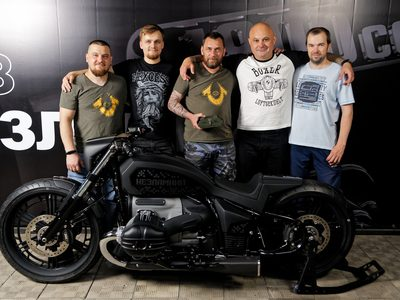
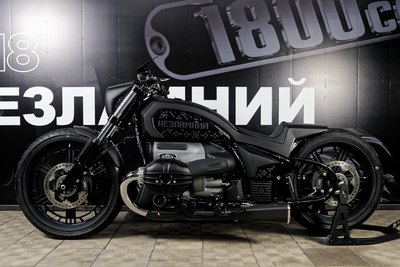
Refresh Unbreakable project photography

diff --git a/projects/unbreakable/index.html b/projects/unbreakable/index.html
@@ -300,6 +300,18 @@
 <div class="gtile"><img alt="Unbreakable — photo 6" height="554" loading="lazy" sizes="(max-width:760px) 50vw, 25vw" src="/photos/projects/gallery/unbreakable/unbreakable-06-800.jpg" srcset="/photos/projects/gallery/unbreakable/unbreakable-06-400.jpg 520w, /photos/projects/gallery/unbreakable/unbreakable-06-800.jpg 832w" width="832"/></div>
 <div class="gtile"><img alt="Unbreakable — photo 7" height="554" loading="lazy" sizes="(max-width:760px) 50vw, 25vw" src="/photos/projects/gallery/unbreakable/unbreakable-07-800.jpg" srcset="/photos/projects/gallery/unbreakable/unbreakable-07-400.jpg 520w, /photos/projects/gallery/unbreakable/unbreakable-07-800.jpg 832w" width="832"/></div>
 <div class="gtile"><img alt="Unbreakable — photo 8" height="554" loading="lazy" sizes="(max-width:760px) 50vw, 25vw" src="/photos/projects/gallery/unbreakable/unbreakable-08-800.jpg" srcset="/photos/projects/gallery/unbreakable/unbreakable-08-400.jpg 520w, /photos/projects/gallery/unbreakable/unbreakable-08-800.jpg 832w" width="832"/></div>
+<div class="gtile"><img alt="Unbreakable — photo 9" height="554" loading="lazy" sizes="(max-width:760px) 50vw, 25vw" src="/photos/projects/gallery/unbreakable/unbreakable-09-800.jpg" srcset="/photos/projects/gallery/unbreakable/unbreakable-09-400.jpg 520w, /photos/projects/gallery/unbreakable/unbreakable-09-800.jpg 832w" width="832"/></div>
+<div class="gtile"><img alt="Unbreakable — photo 10" height="554" loading="lazy" sizes="(max-width:760px) 50vw, 25vw" src="/photos/projects/gallery/unbreakable/unbreakable-10-800.jpg" srcset="/photos/projects/gallery/unbreakable/unbreakable-10-400.jpg 520w, /photos/projects/gallery/unbreakable/unbreakable-10-800.jpg 832w" width="832"/></div>
+<div class="gtile"><img alt="Unbreakable — photo 11" height="554" loading="lazy" sizes="(max-width:760px) 50vw, 25vw" src="/photos/projects/gallery/unbreakable/unbreakable-11-800.jpg" srcset="/photos/projects/gallery/unbreakable/unbreakable-11-400.jpg 520w, /photos/projects/gallery/unbreakable/unbreakable-11-800.jpg 832w" width="832"/></div>
+<div class="gtile"><img alt="Unbreakable — photo 12" height="554" loading="lazy" sizes="(max-width:760px) 50vw, 25vw" src="/photos/projects/gallery/unbreakable/unbreakable-12-800.jpg" srcset="/photos/projects/gallery/unbreakable/unbreakable-12-400.jpg 520w, /photos/projects/gallery/unbreakable/unbreakable-12-800.jpg 832w" width="832"/></div>
+<div class="gtile"><img alt="Unbreakable — photo 13" height="554" loading="lazy" sizes="(max-width:760px) 50vw, 25vw" src="/photos/projects/gallery/unbreakable/unbreakable-13-800.jpg" srcset="/photos/projects/gallery/unbreakable/unbreakable-13-400.jpg 520w, /photos/projects/gallery/unbreakable/unbreakable-13-800.jpg 832w" width="832"/></div>
+<div class="gtile"><img alt="Unbreakable — photo 14" height="554" loading="lazy" sizes="(max-width:760px) 50vw, 25vw" src="/photos/projects/gallery/unbreakable/unbreakable-14-800.jpg" srcset="/photos/projects/gallery/unbreakable/unbreakable-14-400.jpg 520w, /photos/projects/gallery/unbreakable/unbreakable-14-800.jpg 832w" width="832"/></div>
+<div class="gtile"><img alt="Unbreakable — photo 15" height="554" loading="lazy" sizes="(max-width:760px) 50vw, 25vw" src="/photos/projects/gallery/unbreakable/unbreakable-15-800.jpg" srcset="/photos/projects/gallery/unbreakable/unbreakable-15-400.jpg 520w, /photos/projects/gallery/unbreakable/unbreakable-15-800.jpg 832w" width="832"/></div>
+<div class="gtile"><img alt="Unbreakable — photo 16" height="554" loading="lazy" sizes="(max-width:760px) 50vw, 25vw" src="/photos/projects/gallery/unbreakable/unbreakable-16-800.jpg" srcset="/photos/projects/gallery/unbreakable/unbreakable-16-400.jpg 520w, /photos/projects/gallery/unbreakable/unbreakable-16-800.jpg 832w" width="832"/></div>
+<div class="gtile"><img alt="Unbreakable — photo 17" height="554" loading="lazy" sizes="(max-width:760px) 50vw, 25vw" src="/photos/projects/gallery/unbreakable/unbreakable-17-800.jpg" srcset="/photos/projects/gallery/unbreakable/unbreakable-17-400.jpg 520w, /photos/projects/gallery/unbreakable/unbreakable-17-800.jpg 832w" width="832"/></div>
+<div class="gtile"><img alt="Unbreakable — photo 18" height="554" loading="lazy" sizes="(max-width:760px) 50vw, 25vw" src="/photos/projects/gallery/unbreakable/unbreakable-18-800.jpg" srcset="/photos/projects/gallery/unbreakable/unbreakable-18-400.jpg 520w, /photos/projects/gallery/unbreakable/unbreakable-18-800.jpg 832w" width="832"/></div>
+<div class="gtile"><img alt="Unbreakable — photo 19" height="554" loading="lazy" sizes="(max-width:760px) 50vw, 25vw" src="/photos/projects/gallery/unbreakable/unbreakable-19-800.jpg" srcset="/photos/projects/gallery/unbreakable/unbreakable-19-400.jpg 520w, /photos/projects/gallery/unbreakable/unbreakable-19-800.jpg 832w" width="832"/></div>
+<div class="gtile"><img alt="Unbreakable — photo 20" height="554" loading="lazy" sizes="(max-width:760px) 50vw, 25vw" src="/photos/projects/gallery/unbreakable/unbreakable-20-800.jpg" srcset="/photos/projects/gallery/unbreakable/unbreakable-20-400.jpg 520w, /photos/projects/gallery/unbreakable/unbreakable-20-800.jpg 832w" width="832"/></div>
 </div>
 </div>
 </section>

diff --git a/pt/projects/unbreakable/index.html b/pt/projects/unbreakable/index.html
@@ -300,6 +300,18 @@
 <div class="gtile"><img alt="Unbreakable — photo 6" height="554" loading="lazy" sizes="(max-width:760px) 50vw, 25vw" src="/photos/projects/gallery/unbreakable/unbreakable-06-800.jpg" srcset="/photos/projects/gallery/unbreakable/unbreakable-06-400.jpg 520w, /photos/projects/gallery/unbreakable/unbreakable-06-800.jpg 832w" width="832"/></div>
 <div class="gtile"><img alt="Unbreakable — photo 7" height="554" loading="lazy" sizes="(max-width:760px) 50vw, 25vw" src="/photos/projects/gallery/unbreakable/unbreakable-07-800.jpg" srcset="/photos/projects/gallery/unbreakable/unbreakable-07-400.jpg 520w, /photos/projects/gallery/unbreakable/unbreakable-07-800.jpg 832w" width="832"/></div>
 <div class="gtile"><img alt="Unbreakable — photo 8" height="554" loading="lazy" sizes="(max-width:760px) 50vw, 25vw" src="/photos/projects/gallery/unbreakable/unbreakable-08-800.jpg" srcset="/photos/projects/gallery/unbreakable/unbreakable-08-400.jpg 520w, /photos/projects/gallery/unbreakable/unbreakable-08-800.jpg 832w" width="832"/></div>
+<div class="gtile"><img alt="Unbreakable — photo 9" height="554" loading="lazy" sizes="(max-width:760px) 50vw, 25vw" src="/photos/projects/gallery/unbreakable/unbreakable-09-800.jpg" srcset="/photos/projects/gallery/unbreakable/unbreakable-09-400.jpg 520w, /photos/projects/gallery/unbreakable/unbreakable-09-800.jpg 832w" width="832"/></div>
+<div class="gtile"><img alt="Unbreakable — photo 10" height="554" loading="lazy" sizes="(max-width:760px) 50vw, 25vw" src="/photos/projects/gallery/unbreakable/unbreakable-10-800.jpg" srcset="/photos/projects/gallery/unbreakable/unbreakable-10-400.jpg 520w, /photos/projects/gallery/unbreakable/unbreakable-10-800.jpg 832w" width="832"/></div>
+<div class="gtile"><img alt="Unbreakable — photo 11" height="554" loading="lazy" sizes="(max-width:760px) 50vw, 25vw" src="/photos/projects/gallery/unbreakable/unbreakable-11-800.jpg" srcset="/photos/projects/gallery/unbreakable/unbreakable-11-400.jpg 520w, /photos/projects/gallery/unbreakable/unbreakable-11-800.jpg 832w" width="832"/></div>
+<div class="gtile"><img alt="Unbreakable — photo 12" height="554" loading="lazy" sizes="(max-width:760px) 50vw, 25vw" src="/photos/projects/gallery/unbreakable/unbreakable-12-800.jpg" srcset="/photos/projects/gallery/unbreakable/unbreakable-12-400.jpg 520w, /photos/projects/gallery/unbreakable/unbreakable-12-800.jpg 832w" width="832"/></div>
+<div class="gtile"><img alt="Unbreakable — photo 13" height="554" loading="lazy" sizes="(max-width:760px) 50vw, 25vw" src="/photos/projects/gallery/unbreakable/unbreakable-13-800.jpg" srcset="/photos/projects/gallery/unbreakable/unbreakable-13-400.jpg 520w, /photos/projects/gallery/unbreakable/unbreakable-13-800.jpg 832w" width="832"/></div>
+<div class="gtile"><img alt="Unbreakable — photo 14" height="554" loading="lazy" sizes="(max-width:760px) 50vw, 25vw" src="/photos/projects/gallery/unbreakable/unbreakable-14-800.jpg" srcset="/photos/projects/gallery/unbreakable/unbreakable-14-400.jpg 520w, /photos/projects/gallery/unbreakable/unbreakable-14-800.jpg 832w" width="832"/></div>
+<div class="gtile"><img alt="Unbreakable — photo 15" height="554" loading="lazy" sizes="(max-width:760px) 50vw, 25vw" src="/photos/projects/gallery/unbreakable/unbreakable-15-800.jpg" srcset="/photos/projects/gallery/unbreakable/unbreakable-15-400.jpg 520w, /photos/projects/gallery/unbreakable/unbreakable-15-800.jpg 832w" width="832"/></div>
+<div class="gtile"><img alt="Unbreakable — photo 16" height="554" loading="lazy" sizes="(max-width:760px) 50vw, 25vw" src="/photos/projects/gallery/unbreakable/unbreakable-16-800.jpg" srcset="/photos/projects/gallery/unbreakable/unbreakable-16-400.jpg 520w, /photos/projects/gallery/unbreakable/unbreakable-16-800.jpg 832w" width="832"/></div>
+<div class="gtile"><img alt="Unbreakable — photo 17" height="554" loading="lazy" sizes="(max-width:760px) 50vw, 25vw" src="/photos/projects/gallery/unbreakable/unbreakable-17-800.jpg" srcset="/photos/projects/gallery/unbreakable/unbreakable-17-400.jpg 520w, /photos/projects/gallery/unbreakable/unbreakable-17-800.jpg 832w" width="832"/></div>
+<div class="gtile"><img alt="Unbreakable — photo 18" height="554" loading="lazy" sizes="(max-width:760px) 50vw, 25vw" src="/photos/projects/gallery/unbreakable/unbreakable-18-800.jpg" srcset="/photos/projects/gallery/unbreakable/unbreakable-18-400.jpg 520w, /photos/projects/gallery/unbreakable/unbreakable-18-800.jpg 832w" width="832"/></div>
+<div class="gtile"><img alt="Unbreakable — photo 19" height="554" loading="lazy" sizes="(max-width:760px) 50vw, 25vw" src="/photos/projects/gallery/unbreakable/unbreakable-19-800.jpg" srcset="/photos/projects/gallery/unbreakable/unbreakable-19-400.jpg 520w, /photos/projects/gallery/unbreakable/unbreakable-19-800.jpg 832w" width="832"/></div>
+<div class="gtile"><img alt="Unbreakable — photo 20" height="554" loading="lazy" sizes="(max-width:760px) 50vw, 25vw" src="/photos/projects/gallery/unbreakable/unbreakable-20-800.jpg" srcset="/photos/projects/gallery/unbreakable/unbreakable-20-400.jpg 520w, /photos/projects/gallery/unbreakable/unbreakable-20-800.jpg 832w" width="832"/></div>
 </div>
 </div>
 </section>

diff --git a/ru/projects/unbreakable/index.html b/ru/projects/unbreakable/index.html
@@ -300,6 +300,18 @@
 <div class="gtile"><img alt="Unbreakable — photo 6" height="554" loading="lazy" sizes="(max-width:760px) 50vw, 25vw" src="/photos/projects/gallery/unbreakable/unbreakable-06-800.jpg" srcset="/photos/projects/gallery/unbreakable/unbreakable-06-400.jpg 520w, /photos/projects/gallery/unbreakable/unbreakable-06-800.jpg 832w" width="832"/></div>
 <div class="gtile"><img alt="Unbreakable — photo 7" height="554" loading="lazy" sizes="(max-width:760px) 50vw, 25vw" src="/photos/projects/gallery/unbreakable/unbreakable-07-800.jpg" srcset="/photos/projects/gallery/unbreakable/unbreakable-07-400.jpg 520w, /photos/projects/gallery/unbreakable/unbreakable-07-800.jpg 832w" width="832"/></div>
 <div class="gtile"><img alt="Unbreakable — photo 8" height="554" loading="lazy" sizes="(max-width:760px) 50vw, 25vw" src="/photos/projects/gallery/unbreakable/unbreakable-08-800.jpg" srcset="/photos/projects/gallery/unbreakable/unbreakable-08-400.jpg 520w, /photos/projects/gallery/unbreakable/unbreakable-08-800.jpg 832w" width="832"/></div>
+<div class="gtile"><img alt="Unbreakable — photo 9" height="554" loading="lazy" sizes="(max-width:760px) 50vw, 25vw" src="/photos/projects/gallery/unbreakable/unbreakable-09-800.jpg" srcset="/photos/projects/gallery/unbreakable/unbreakable-09-400.jpg 520w, /photos/projects/gallery/unbreakable/unbreakable-09-800.jpg 832w" width="832"/></div>
+<div class="gtile"><img alt="Unbreakable — photo 10" height="554" loading="lazy" sizes="(max-width:760px) 50vw, 25vw" src="/photos/projects/gallery/unbreakable/unbreakable-10-800.jpg" srcset="/photos/projects/gallery/unbreakable/unbreakable-10-400.jpg 520w, /photos/projects/gallery/unbreakable/unbreakable-10-800.jpg 832w" width="832"/></div>
+<div class="gtile"><img alt="Unbreakable — photo 11" height="554" loading="lazy" sizes="(max-width:760px) 50vw, 25vw" src="/photos/projects/gallery/unbreakable/unbreakable-11-800.jpg" srcset="/photos/projects/gallery/unbreakable/unbreakable-11-400.jpg 520w, /photos/projects/gallery/unbreakable/unbreakable-11-800.jpg 832w" width="832"/></div>
+<div class="gtile"><img alt="Unbreakable — photo 12" height="554" loading="lazy" sizes="(max-width:760px) 50vw, 25vw" src="/photos/projects/gallery/unbreakable/unbreakable-12-800.jpg" srcset="/photos/projects/gallery/unbreakable/unbreakable-12-400.jpg 520w, /photos/projects/gallery/unbreakable/unbreakable-12-800.jpg 832w" width="832"/></div>
+<div class="gtile"><img alt="Unbreakable — photo 13" height="554" loading="lazy" sizes="(max-width:760px) 50vw, 25vw" src="/photos/projects/gallery/unbreakable/unbreakable-13-800.jpg" srcset="/photos/projects/gallery/unbreakable/unbreakable-13-400.jpg 520w, /photos/projects/gallery/unbreakable/unbreakable-13-800.jpg 832w" width="832"/></div>
+<div class="gtile"><img alt="Unbreakable — photo 14" height="554" loading="lazy" sizes="(max-width:760px) 50vw, 25vw" src="/photos/projects/gallery/unbreakable/unbreakable-14-800.jpg" srcset="/photos/projects/gallery/unbreakable/unbreakable-14-400.jpg 520w, /photos/projects/gallery/unbreakable/unbreakable-14-800.jpg 832w" width="832"/></div>
+<div class="gtile"><img alt="Unbreakable — photo 15" height="554" loading="lazy" sizes="(max-width:760px) 50vw, 25vw" src="/photos/projects/gallery/unbreakable/unbreakable-15-800.jpg" srcset="/photos/projects/gallery/unbreakable/unbreakable-15-400.jpg 520w, /photos/projects/gallery/unbreakable/unbreakable-15-800.jpg 832w" width="832"/></div>
+<div class="gtile"><img alt="Unbreakable — photo 16" height="554" loading="lazy" sizes="(max-width:760px) 50vw, 25vw" src="/photos/projects/gallery/unbreakable/unbreakable-16-800.jpg" srcset="/photos/projects/gallery/unbreakable/unbreakable-16-400.jpg 520w, /photos/projects/gallery/unbreakable/unbreakable-16-800.jpg 832w" width="832"/></div>
+<div class="gtile"><img alt="Unbreakable — photo 17" height="554" loading="lazy" sizes="(max-width:760px) 50vw, 25vw" src="/photos/projects/gallery/unbreakable/unbreakable-17-800.jpg" srcset="/photos/projects/gallery/unbreakable/unbreakable-17-400.jpg 520w, /photos/projects/gallery/unbreakable/unbreakable-17-800.jpg 832w" width="832"/></div>
+<div class="gtile"><img alt="Unbreakable — photo 18" height="554" loading="lazy" sizes="(max-width:760px) 50vw, 25vw" src="/photos/projects/gallery/unbreakable/unbreakable-18-800.jpg" srcset="/photos/projects/gallery/unbreakable/unbreakable-18-400.jpg 520w, /photos/projects/gallery/unbreakable/unbreakable-18-800.jpg 832w" width="832"/></div>
+<div class="gtile"><img alt="Unbreakable — photo 19" height="554" loading="lazy" sizes="(max-width:760px) 50vw, 25vw" src="/photos/projects/gallery/unbreakable/unbreakable-19-800.jpg" srcset="/photos/projects/gallery/unbreakable/unbreakable-19-400.jpg 520w, /photos/projects/gallery/unbreakable/unbreakable-19-800.jpg 832w" width="832"/></div>
+<div class="gtile"><img alt="Unbreakable — photo 20" height="554" loading="lazy" sizes="(max-width:760px) 50vw, 25vw" src="/photos/projects/gallery/unbreakable/unbreakable-20-800.jpg" srcset="/photos/projects/gallery/unbreakable/unbreakable-20-400.jpg 520w, /photos/projects/gallery/unbreakable/unbreakable-20-800.jpg 832w" width="832"/></div>
 </div>
 </div>
 </section>

diff --git a/uk/projects/unbreakable/index.html b/uk/projects/unbreakable/index.html
@@ -300,6 +300,18 @@
 <div class="gtile"><img alt="Unbreakable — photo 6" height="554" loading="lazy" sizes="(max-width:760px) 50vw, 25vw" src="/photos/projects/gallery/unbreakable/unbreakable-06-800.jpg" srcset="/photos/projects/gallery/unbreakable/unbreakable-06-400.jpg 520w, /photos/projects/gallery/unbreakable/unbreakable-06-800.jpg 832w" width="832"/></div>
 <div class="gtile"><img alt="Unbreakable — photo 7" height="554" loading="lazy" sizes="(max-width:760px) 50vw, 25vw" src="/photos/projects/gallery/unbreakable/unbreakable-07-800.jpg" srcset="/photos/projects/gallery/unbreakable/unbreakable-07-400.jpg 520w, /photos/projects/gallery/unbreakable/unbreakable-07-800.jpg 832w" width="832"/></div>
 <div class="gtile"><img alt="Unbreakable — photo 8" height="554" loading="lazy" sizes="(max-width:760px) 50vw, 25vw" src="/photos/projects/gallery/unbreakable/unbreakable-08-800.jpg" srcset="/photos/projects/gallery/unbreakable/unbreakable-08-400.jpg 520w, /photos/projects/gallery/unbreakable/unbreakable-08-800.jpg 832w" width="832"/></div>
+<div class="gtile"><img alt="Unbreakable — photo 9" height="554" loading="lazy" sizes="(max-width:760px) 50vw, 25vw" src="/photos/projects/gallery/unbreakable/unbreakable-09-800.jpg" srcset="/photos/projects/gallery/unbreakable/unbreakable-09-400.jpg 520w, /photos/projects/gallery/unbreakable/unbreakable-09-800.jpg 832w" width="832"/></div>
+<div class="gtile"><img alt="Unbreakable — photo 10" height="554" loading="lazy" sizes="(max-width:760px) 50vw, 25vw" src="/photos/projects/gallery/unbreakable/unbreakable-10-800.jpg" srcset="/photos/projects/gallery/unbreakable/unbreakable-10-400.jpg 520w, /photos/projects/gallery/unbreakable/unbreakable-10-800.jpg 832w" width="832"/></div>
+<div class="gtile"><img alt="Unbreakable — photo 11" height="554" loading="lazy" sizes="(max-width:760px) 50vw, 25vw" src="/photos/projects/gallery/unbreakable/unbreakable-11-800.jpg" srcset="/photos/projects/gallery/unbreakable/unbreakable-11-400.jpg 520w, /photos/projects/gallery/unbreakable/unbreakable-11-800.jpg 832w" width="832"/></div>
+<div class="gtile"><img alt="Unbreakable — photo 12" height="554" loading="lazy" sizes="(max-width:760px) 50vw, 25vw" src="/photos/projects/gallery/unbreakable/unbreakable-12-800.jpg" srcset="/photos/projects/gallery/unbreakable/unbreakable-12-400.jpg 520w, /photos/projects/gallery/unbreakable/unbreakable-12-800.jpg 832w" width="832"/></div>
+<div class="gtile"><img alt="Unbreakable — photo 13" height="554" loading="lazy" sizes="(max-width:760px) 50vw, 25vw" src="/photos/projects/gallery/unbreakable/unbreakable-13-800.jpg" srcset="/photos/projects/gallery/unbreakable/unbreakable-13-400.jpg 520w, /photos/projects/gallery/unbreakable/unbreakable-13-800.jpg 832w" width="832"/></div>
+<div class="gtile"><img alt="Unbreakable — photo 14" height="554" loading="lazy" sizes="(max-width:760px) 50vw, 25vw" src="/photos/projects/gallery/unbreakable/unbreakable-14-800.jpg" srcset="/photos/projects/gallery/unbreakable/unbreakable-14-400.jpg 520w, /photos/projects/gallery/unbreakable/unbreakable-14-800.jpg 832w" width="832"/></div>
+<div class="gtile"><img alt="Unbreakable — photo 15" height="554" loading="lazy" sizes="(max-width:760px) 50vw, 25vw" src="/photos/projects/gallery/unbreakable/unbreakable-15-800.jpg" srcset="/photos/projects/gallery/unbreakable/unbreakable-15-400.jpg 520w, /photos/projects/gallery/unbreakable/unbreakable-15-800.jpg 832w" width="832"/></div>
+<div class="gtile"><img alt="Unbreakable — photo 16" height="554" loading="lazy" sizes="(max-width:760px) 50vw, 25vw" src="/photos/projects/gallery/unbreakable/unbreakable-16-800.jpg" srcset="/photos/projects/gallery/unbreakable/unbreakable-16-400.jpg 520w, /photos/projects/gallery/unbreakable/unbreakable-16-800.jpg 832w" width="832"/></div>
+<div class="gtile"><img alt="Unbreakable — photo 17" height="554" loading="lazy" sizes="(max-width:760px) 50vw, 25vw" src="/photos/projects/gallery/unbreakable/unbreakable-17-800.jpg" srcset="/photos/projects/gallery/unbreakable/unbreakable-17-400.jpg 520w, /photos/projects/gallery/unbreakable/unbreakable-17-800.jpg 832w" width="832"/></div>
+<div class="gtile"><img alt="Unbreakable — photo 18" height="554" loading="lazy" sizes="(max-width:760px) 50vw, 25vw" src="/photos/projects/gallery/unbreakable/unbreakable-18-800.jpg" srcset="/photos/projects/gallery/unbreakable/unbreakable-18-400.jpg 520w, /photos/projects/gallery/unbreakable/unbreakable-18-800.jpg 832w" width="832"/></div>
+<div class="gtile"><img alt="Unbreakable — photo 19" height="554" loading="lazy" sizes="(max-width:760px) 50vw, 25vw" src="/photos/projects/gallery/unbreakable/unbreakable-19-800.jpg" srcset="/photos/projects/gallery/unbreakable/unbreakable-19-400.jpg 520w, /photos/projects/gallery/unbreakable/unbreakable-19-800.jpg 832w" width="832"/></div>
+<div class="gtile"><img alt="Unbreakable — photo 20" height="554" loading="lazy" sizes="(max-width:760px) 50vw, 25vw" src="/photos/projects/gallery/unbreakable/unbreakable-20-800.jpg" srcset="/photos/projects/gallery/unbreakable/unbreakable-20-400.jpg 520w, /photos/projects/gallery/unbreakable/unbreakable-20-800.jpg 832w" width="832"/></div>
 </div>
 </div>
 </section>

diff --git a/docs/CODEX_CHANGELOG.md b/docs/CODEX_CHANGELOG.md
@@ -14,6 +14,17 @@ Format:
 - Notes: ...
 ```
 
+## 2026-07-24 - Unbreakable photo refresh
+
+- Commit: this commit
+- Changed: Replaced the Unbreakable hero under its existing stable image paths
+  and added 12 new responsive gallery photographs to all four language pages.
+- Verified: Image decoding and dimensions; 20-item gallery parity across
+  EN/PT/RU/UK; full SEO validation; desktop and mobile browser checks;
+  production page and asset checks.
+- Notes: The original eight gallery images remain in place. Project name, URL,
+  localized copy, metadata, schema and layout remain unchanged.
+
 ## 2026-07-24 - BMW Motorrad hero refresh
 
 - Commit: this commit
